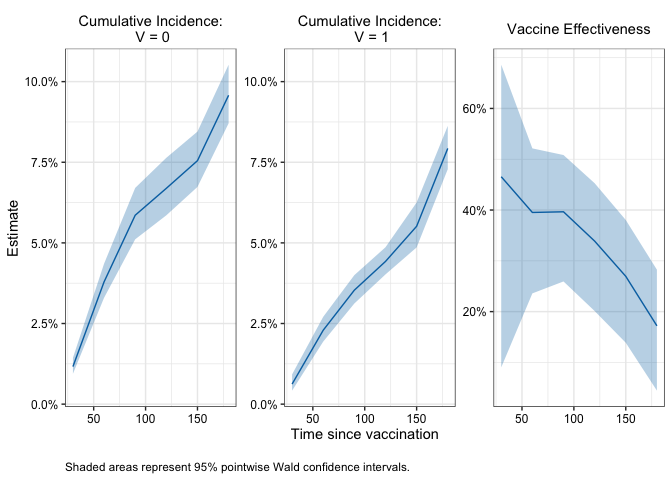
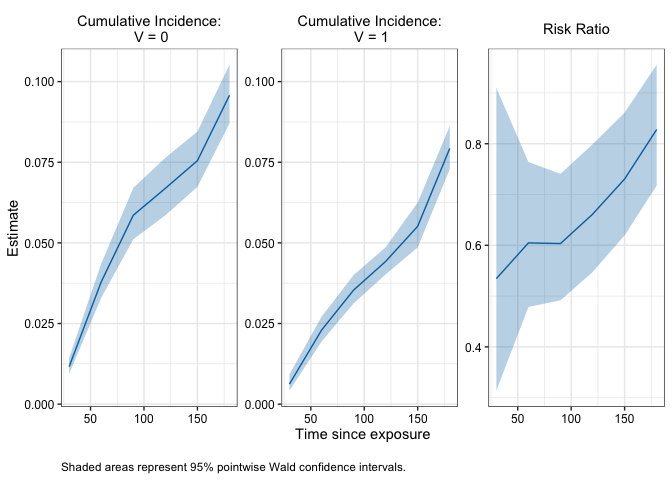
remove effect option for main functions and let it be handled exclusively by method functions

diff --git a/README.md b/README.md
@@ -27,7 +27,7 @@ devtools::install_github("ewu16/nomatch")
 
 This minimal example shows how to use `nomatch` to obtain cumulative
 incidences and their derived effect measures such as risk differences
-(RD), risk ratios (RR), and vaccine effectiveness (VE = 1 - RR).
+(RD), risk ratios (RR), and relative risk reduction (1 - RR).
 
 We use a simple simulated dataset mimicking data from an observational
 vaccine study, although the methods apply equally to other disease
@@ -85,31 +85,30 @@ fit <- nomatch(data = simdata,
                covariates = c("x1", "x2"),
                immune_lag = 14,
                timepoints = seq(30, 180, by = 30),
-               effect = "relative_risk_reduction", 
                boot_reps = 10)
 #> Bootstrapping 10 samples...
-#> Time difference of 1.489327 secs
+#> Time difference of 1.523599 secs
 
 # Print main results 
-## - Note by default only the chosen effect measure is printed
+## By default shows risk ratios 
 ## but all effect measures are computed and stored in the fitted object 
 fit        
 #> 
-#>  Vaccine Effectiveness Estimates 
+#>  Risk Ratio Estimates 
 #> ================================================== 
 #> Call: nomatch(data = simdata, outcome_time = "Y", outcome_status = "event", 
 #>     exposure = "V", exposure_time = "D_obs", covariates = c("x1", 
 #>         "x2"), immune_lag = 14, timepoints = seq(30, 180, by = 30), 
-#>     effect = "relative_risk_reduction", boot_reps = 10) 
+#>     boot_reps = 10) 
 #> 
 #> Result:
 #>   Timepoint Estimate 95% Wald CI: Lower 95% Wald CI: Upper Wald p-value
-#> 1        30    0.466             0.0902              0.686     0.086340
-#> 2        60    0.395             0.2359              0.521     0.000925
-#> 3        90    0.397             0.2594              0.508     0.000148
-#> 4       120    0.339             0.2011              0.453     0.000448
-#> 5       150    0.269             0.1387              0.380     0.001338
-#> 6       180    0.172             0.0444              0.283     0.018627
+#> 1        30    0.534              0.314              0.910     0.086340
+#> 2        60    0.605              0.479              0.764     0.000925
+#> 3        90    0.603              0.492              0.741     0.000148
+#> 4       120    0.661              0.547              0.799     0.000448
+#> 5       150    0.731              0.620              0.861     0.001338
+#> 6       180    0.828              0.717              0.956     0.018627
 #> 
 #> Use summary() for more details
 #> Use plot() to visualize results
@@ -118,7 +117,7 @@ fit
 summary(fit)
 #> 
 #> ====================================================================== 
-#> Vaccine Effectiveness Analysis Summary
+#> Analysis Summary
 #> ====================================================================== 
 #> 
 #> Method:              nomatch (G-computation) 
